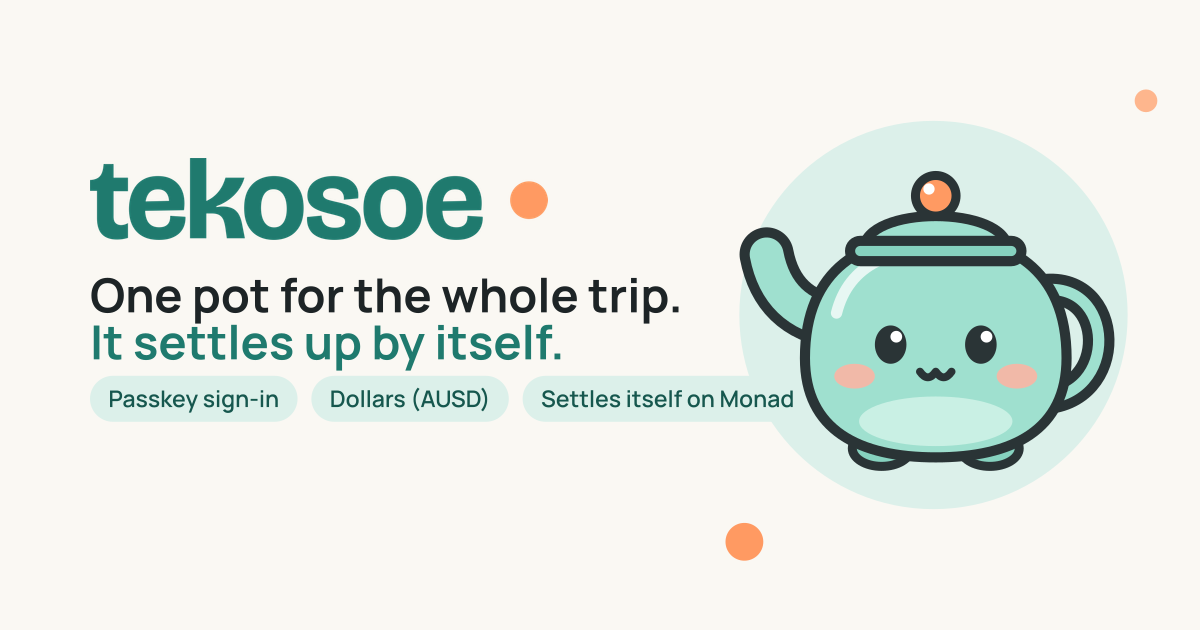
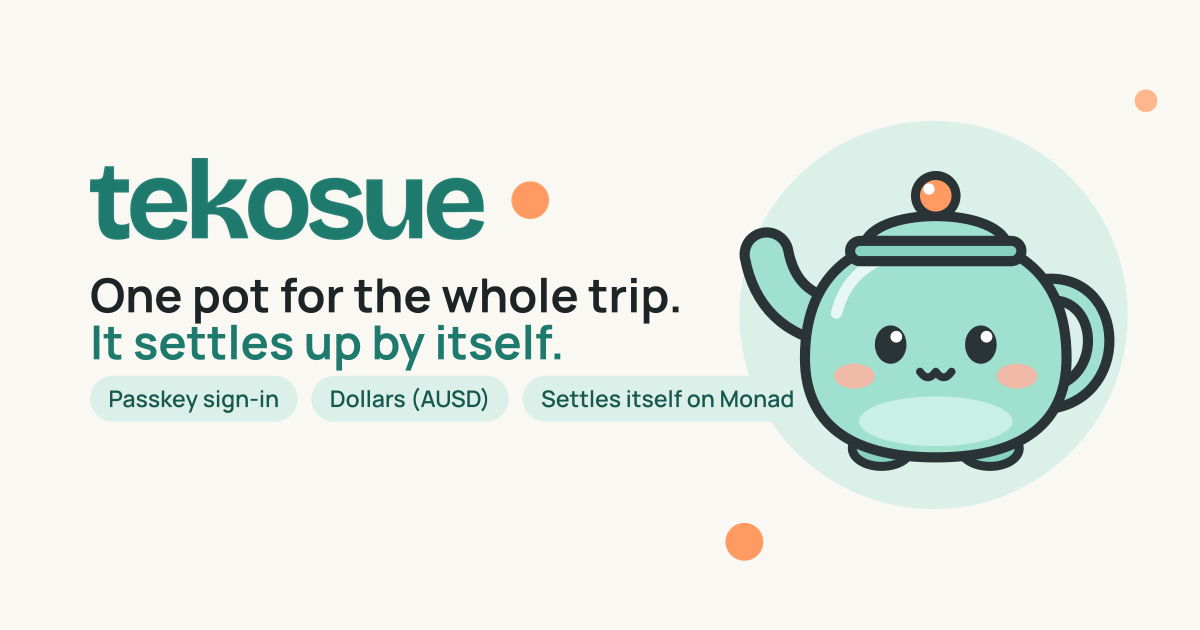
docs: Tekosue wordmark and refreshed README images
- Redraw the wordmark as "tekosue" (same font, size and spacing) and
  rename the brand sources to tekosue-mark*/tekosue-logo*.svg.
- Regenerate the README banner and the web Open Graph image.
- Retake the welcome, trip, settle-up and invoice screenshots from the
  current app and rebuild the showcase from them.
- Add Rakyavara Artomily to the team table.

Changed region(s): [[0.0925, 0.2714, 0.4317, 0.3921]]

diff --git a/apps/web/src/components/Logo.tsx b/apps/web/src/components/Logo.tsx
@@ -21,7 +21,7 @@ export function Logo({ size = 24, dot = true }: { size?: number; dot?: boolean }
   );
 }
 
-/** Ikon brand: maskot Teko tanpa latar — bentuk sama persis dengan apps/mobile/assets/tekosoe-mark.svg. */
+/** Ikon brand: maskot Teko tanpa latar — bentuk sama persis dengan apps/mobile/assets/tekosue-mark.svg. */
 export function TekoMark({ className }: { className?: string }) {
   return (
     <svg viewBox="9 28 180 180" className={className} aria-hidden="true" focusable="false">

diff --git a/README.md b/README.md
@@ -278,7 +278,7 @@ npm run build -w @tekosue/web && npm run preview -w @tekosue/web   # static expo
 
 ### Brand assets
 
-App icons, Android adaptive icon, splash, favicons, the web Open Graph image and the banner above are generated from [`tekosoe-mark.svg`](apps/mobile/assets/tekosoe-mark.svg), [`tekosoe-mark-mono.svg`](apps/mobile/assets/tekosoe-mark-mono.svg) and [`tekosoe-logo.svg`](apps/mobile/assets/tekosoe-logo.svg) by [`scripts/brand-assets.mjs`](scripts/brand-assets.mjs) (instructions at the top of the file).
+App icons, Android adaptive icon, splash, favicons, the web Open Graph image and the banner above are generated from [`tekosue-mark.svg`](apps/mobile/assets/tekosue-mark.svg), [`tekosue-mark-mono.svg`](apps/mobile/assets/tekosue-mark-mono.svg) and [`tekosue-logo.svg`](apps/mobile/assets/tekosue-logo.svg) by [`scripts/brand-assets.mjs`](scripts/brand-assets.mjs) (instructions at the top of the file).
 
 ---
 
@@ -324,7 +324,8 @@ What we will watch: trips started, the share of invitees who actually join, and 
 
 | | Who | Built |
 | --- | --- | --- |
-| <img src="https://github.com/kikik27.png" width="48" alt="" /> | **Kyy** · [@kikik27](https://github.com/kikik27) | Product, the mobile app, the `GroupVault` contract, the Envio indexer, the web companion |
+| <img src="https://github.com/kikik27.png" width="48" alt="" /> | **Kyy** · [@kikik27](https://github.com/kikik27) | Product, the mobile app, the `GroupVault` contract, the Envio indexer, live invite and invoice pages on the web |
+| <img src="https://github.com/artomily.png" width="48" alt="" /> | **Rakyavara Artomily** · [@artomily](https://github.com/artomily) | The website: landing page with the 3D Teko scenes, the read-only demo dashboard, and the app's design system ported to the web |
 | <img src="https://github.com/Dapoodap.png" width="48" alt="" /> | **MasDapa** · [@Dapoodap](https://github.com/Dapoodap) | The backend API: auth, gas drip, settle-up scheduler, profiles, receipts, push |
 
 Full history: [contributors](https://github.com/sewunodetech/tekosue/graphs/contributors).

diff --git a/docs/STATUS.md b/docs/STATUS.md
@@ -30,7 +30,7 @@ Legend: ✅ done · 🟡 in progress · ⏳ not started
 ## Mobile — see `apps/mobile/ROADMAP.md`
 
 - [x] UI for every Final UI screen + the Teko mascot + design system (demo data), branch `mobile-dev`
-- [ ] M0 Setup: merge to `main`, Home at `/trips`, `eas.json`, dev build on 2 phones, icons & splash. *Home at `/trips` ✅; app icon, adaptive icon, splash, favicon + web/OG icons from `tekosoe-mark.svg` ✅ (`scripts/brand-assets.mjs`); remaining: merge, `eas.json`, dev build*
+- [ ] M0 Setup: merge to `main`, Home at `/trips`, `eas.json`, dev build on 2 phones, icons & splash. *Home at `/trips` ✅; app icon, adaptive icon, splash, favicon + web/OG icons from `tekosue-mark.svg` ✅ (`scripts/brand-assets.mjs`); remaining: merge, `eas.json`, dev build*
 - [x] M1 Data layer: `src/data` (demo) + `src/features/*` hooks, loading/error states through `QueryState`. Every screen is decoupled from demo data
 - [ ] M2 Mera spike: passkey + sign one transaction in a dev build, ADR with the result. *ADR 0003 + code exist. 4 Oct: passkey + PRF verified in a dev build on Android (Xiaomi, MIUI) with rpId `tekosoe.mulalabs.biz.id` — `.well-known` served from the VPS, signing back in with the same passkey opens the same account (profile + balance). Remaining: sign a transaction, iOS (needs Apple Team ID in AASA), second phone*
 - [x] M3 Session & account: Signer, SessionProvider, route gate, real passkey prompt. *Signer, SessionProvider and route gate done. SecureStore blocker resolved (using `requireAuthentication: true`). 4 Oct: 02 Sign in now has an explicit "Create account with Passkey" (new passkey) next to "I already have an account" (existing passkey); sign up no longer depends on a `NoCredentials` fallback, which iOS never returns.*

diff --git a/docs/decisions/0011-rebrand-tekosue.md b/docs/decisions/0011-rebrand-tekosue.md
@@ -23,7 +23,7 @@ The product's correct name is **Tekosue**; the repo, packages and UI still said 
 | The SIWE statement `"Sign in to Tekosoe."` | Compared with the message installed APKs build; not shown as UI text |
 | `SHARE_AUDIENCE = "tekosoe:invoice-share"` | Changing it invalidates invoice access keys already issued (valid 7 days) |
 | `tekosoe-indexer` | Internal HyperIndex name |
-| Asset file names `tekosoe-mark*.svg`, `tekosoe-logo.svg`, the repo folder | Out of scope |
+| The repo folder on disk | Out of scope |
 | Live document titles "Tekosoe — Dokumen Produk" and the "Tekosoe — Wireframe" canvas | External document names; rename them at the source first |
 | History in ADRs 0001–0010 and older `docs/STATUS.md` entries | History is not rewritten |
 
@@ -34,3 +34,4 @@ The product's correct name is **Tekosue**; the repo, packages and UI still said 
 - Passkeys are bound to `www.tekosue.xyz`. Don't move to the apex later without an account migration plan.
 - Workspace commands are now `-w @tekosue/<name>`; delete the old `node_modules/@tekosoe` and run `npm install` at the root.
 - The GitHub repo moved to `sewunodetech/tekosue` (the old URL redirects).
+- The brand source files were renamed to `tekosue-mark*.svg` / `tekosue-logo*.svg`, the wordmark was redrawn as "tekosue" (Bricolage Grotesque 700, same size and spacing), and every generated image (app icons, splash, favicons, Open Graph image, README banner) was regenerated with `scripts/brand-assets.mjs`.
